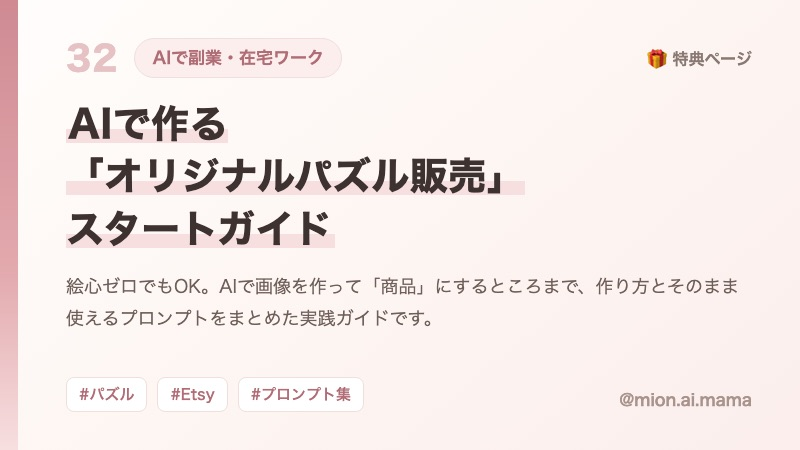
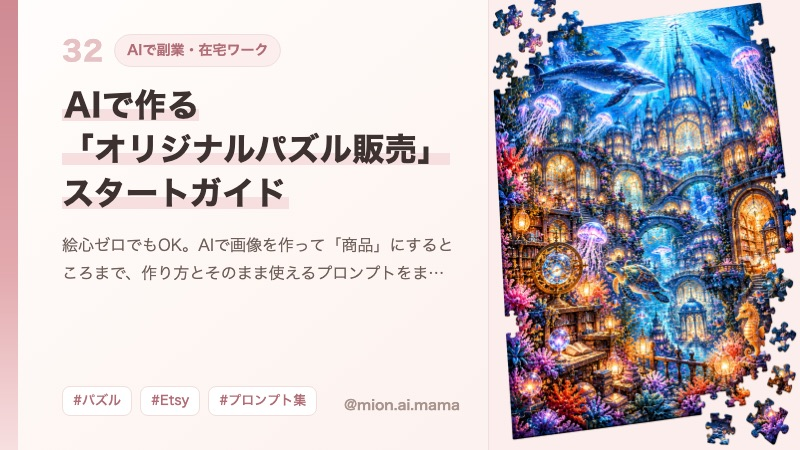
No.32のサムネイルを完成パズル画像入りに変更

diff --git a/js/presents.js b/js/presents.js
@@ -26,6 +26,8 @@ const PRESENTS = [
   {
     id: "ai-puzzle-tokuten",
     thumbAuto: true, // サムネイルは gen-thumb.js で自動生成
+    // 完成したパズルの縦長(2:3)画像を、タイトルの横に並べる形で生成する。
+    thumbArt: "assets/thumb-src/ai-puzzle-cover.png",
     number: "32",
     type: "page",
     category: "AIで副業・在宅ワーク",
@@ -35,7 +37,7 @@ const PRESENTS = [
       "絵心ゼロでもOK。AIで画像を作って「商品」にするところまで、作り方とそのまま使えるプロンプトをまとめた実践ガイドです。",
     tags: ["パズル", "Etsy", "プロンプト集"],
     url: "https://mion-ai-mama.github.io/ai-puzzle-tokuten/",
-    image: "assets/thumbs/ai-puzzle-tokuten.jpg?v=19c12e7f",
+    image: "assets/thumbs/ai-puzzle-tokuten.jpg?v=fc2e6218",
   },
   {
     id: "claude-work-delegation-tokuten",
